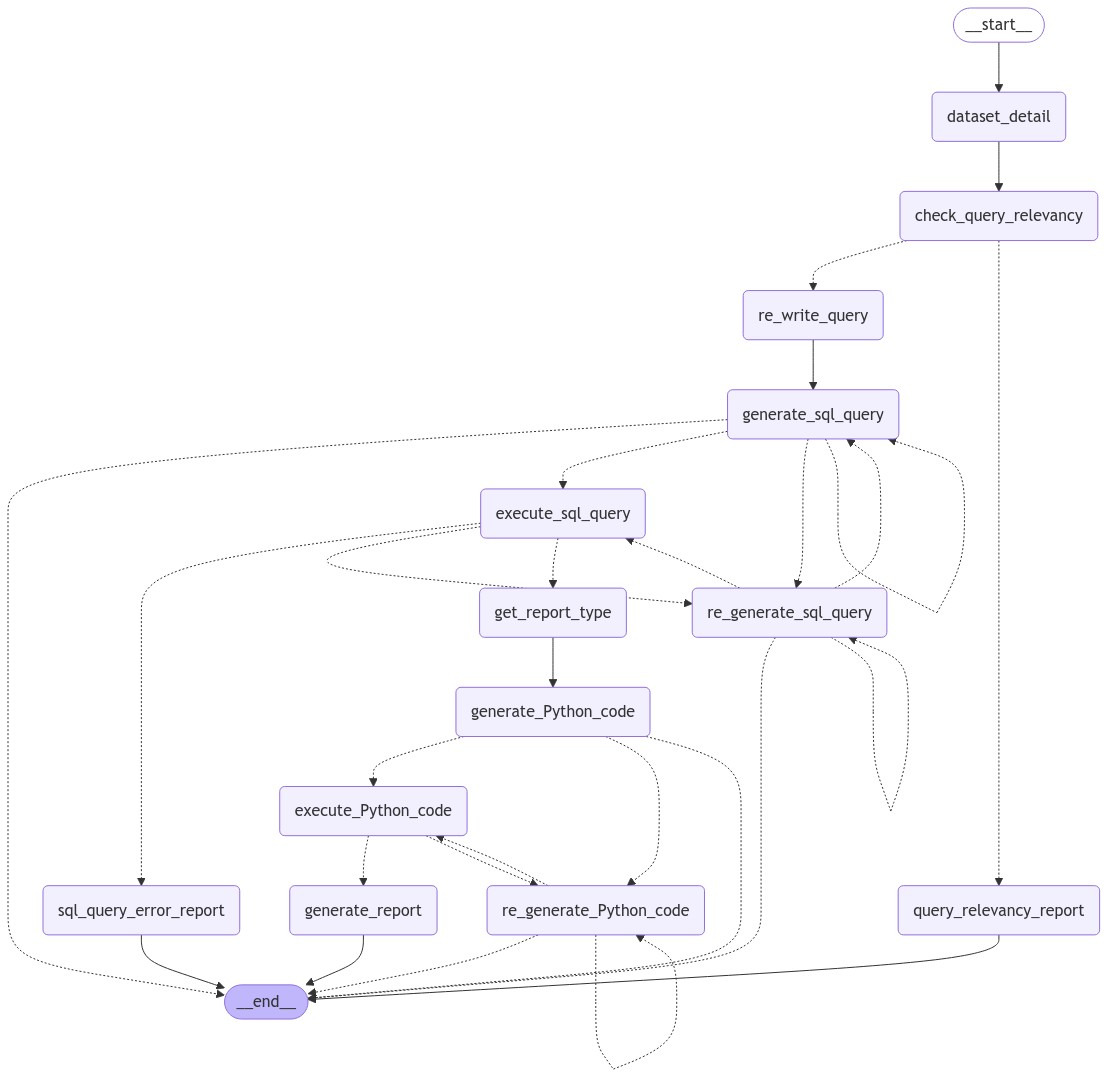
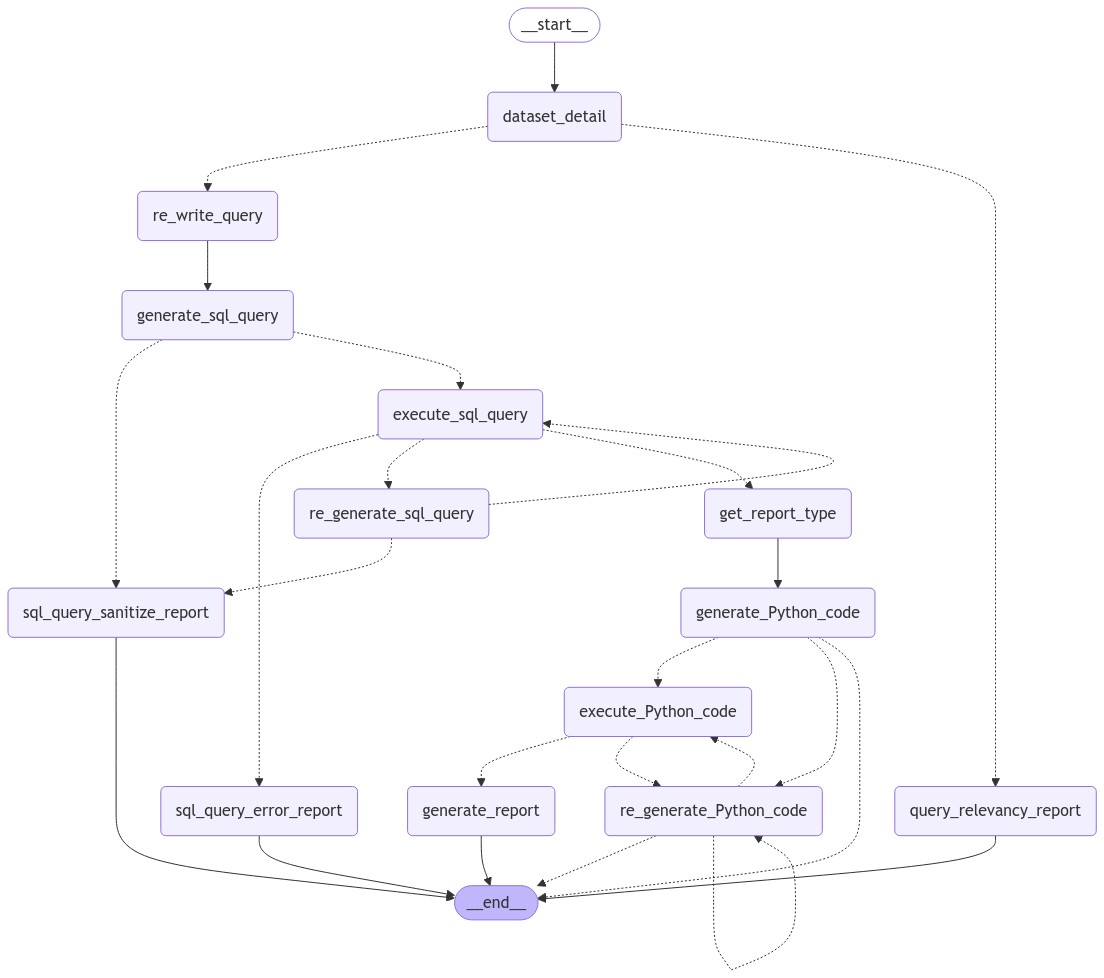
Refactored workflow.

diff --git a/analytics_graph_generator.py b/analytics_graph_generator.py
@@ -2,7 +2,6 @@
 from langgraph.graph import START, StateGraph, END
 from langgraph.graph.graph import CompiledGraph
 from nodes.query_relevancy_check_node import check_query_relevancy
-from nodes.make_decision_based_on_query_relevant_node import make_decision_on_query_relevancy
 from nodes.query_relevancy_report_node import query_relevancy_report
 from nodes.query_re_write_node import re_write_query
 from nodes.get_dataset_detail_node import get_dataset_detail
@@ -22,7 +21,6 @@ from nodes.make_decision_node import make_decision
 from nodes.generate_report_type_node import get_report_type
 from nodes.agent_state import AgentState 
 from nodes.nodes_name import (
-    QUERY_RELEVANCY_CHECKER, 
     QUERY_RELEVANCY_REPORT,
     RE_WRITE_QUERY,
     DATASET_DETAILS,
@@ -40,7 +38,6 @@ from nodes.nodes_name import (
 
 def generate_graph()-> CompiledGraph:
     workflow = StateGraph(AgentState)
-    workflow.add_node(QUERY_RELEVANCY_CHECKER, check_query_relevancy)
     workflow.add_node(QUERY_RELEVANCY_REPORT, query_relevancy_report)
     workflow.add_node(RE_WRITE_QUERY, re_write_query)
 
@@ -63,11 +60,10 @@ def generate_graph()-> CompiledGraph:
 
 
     workflow.add_edge(START, DATASET_DETAILS)
-    workflow.add_edge(DATASET_DETAILS, QUERY_RELEVANCY_CHECKER)
     
     workflow.add_conditional_edges(
-        QUERY_RELEVANCY_CHECKER,
-        make_decision_on_query_relevancy,
+        DATASET_DETAILS,
+        check_query_relevancy,
     )
 
     workflow.add_edge(RE_WRITE_QUERY, QUERY_GENERATION)
@@ -126,5 +122,4 @@ def get_reports(dataset_name, query):
                 'max_Python_script_check': 5,
                 })
 
-   
     return results.get("reports", "No reports found")

diff --git a/nodes/query_relevancy_check_node.py b/nodes/query_relevancy_check_node.py
@@ -4,6 +4,7 @@ from langchain.prompts import PromptTemplate
 from langchain_openai import ChatOpenAI
 from decouple import config
 from nodes.agent_state import AgentState
+from nodes.nodes_name import RE_WRITE_QUERY, QUERY_RELEVANCY_REPORT
 
 
 sys_msg = """
@@ -14,7 +15,7 @@ sys_msg = """
     """
 
 
-def check_query_relevancy(state: AgentState) -> AgentState:
+def check_query_relevancy(state: AgentState) -> Literal[ RE_WRITE_QUERY, QUERY_RELEVANCY_REPORT ]:
     print("--- QUERY RELEVANCY CHECK ---")
 
     OPENAI_API_KEY = config("OPENAI_API_KEY")
@@ -47,8 +48,8 @@ def check_query_relevancy(state: AgentState) -> AgentState:
     grade = scored_result.binary_score
 
     if grade == "yes":
-        return {"is_query_relevant" : True}
+        return RE_WRITE_QUERY
     else:
 
-        return {"is_query_relevant": False}
+        return QUERY_RELEVANCY_REPORT
 

diff --git a/nodes/nodes_name.py b/nodes/nodes_name.py
@@ -1,4 +1,3 @@
-QUERY_RELEVANCY_CHECKER = "check_query_relevancy"
 QUERY_RELEVANCY_REPORT = "query_relevancy_report"
 RE_WRITE_QUERY = "re_write_query"
 DATASET_DETAILS = "dataset_detail"
